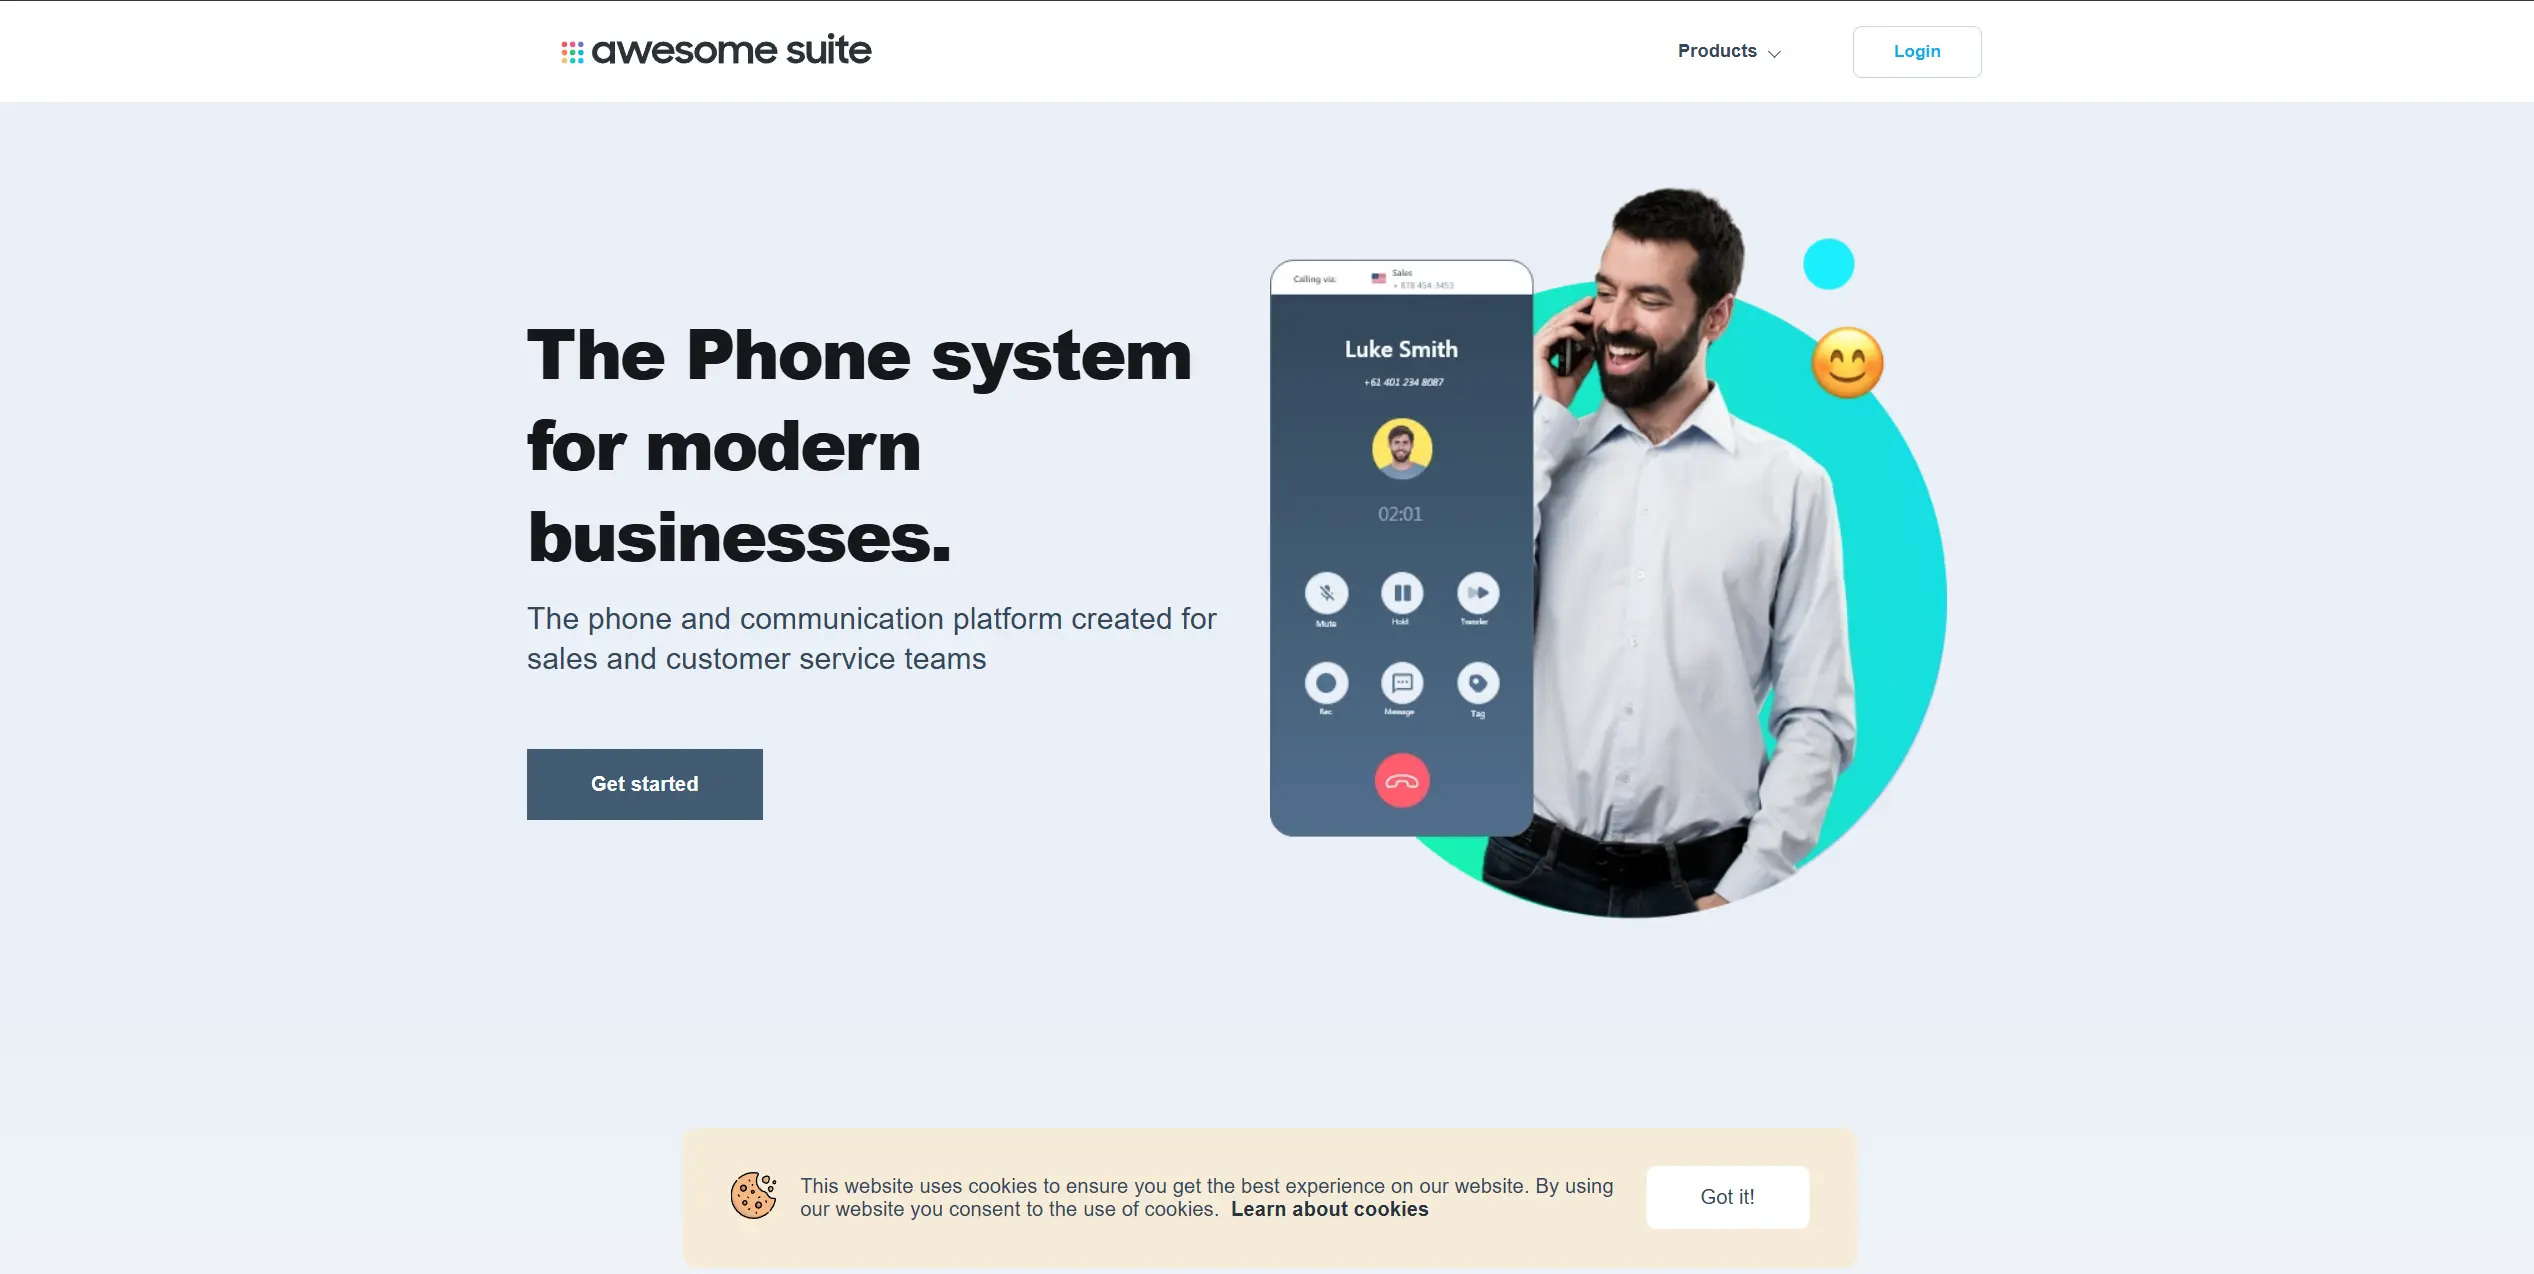
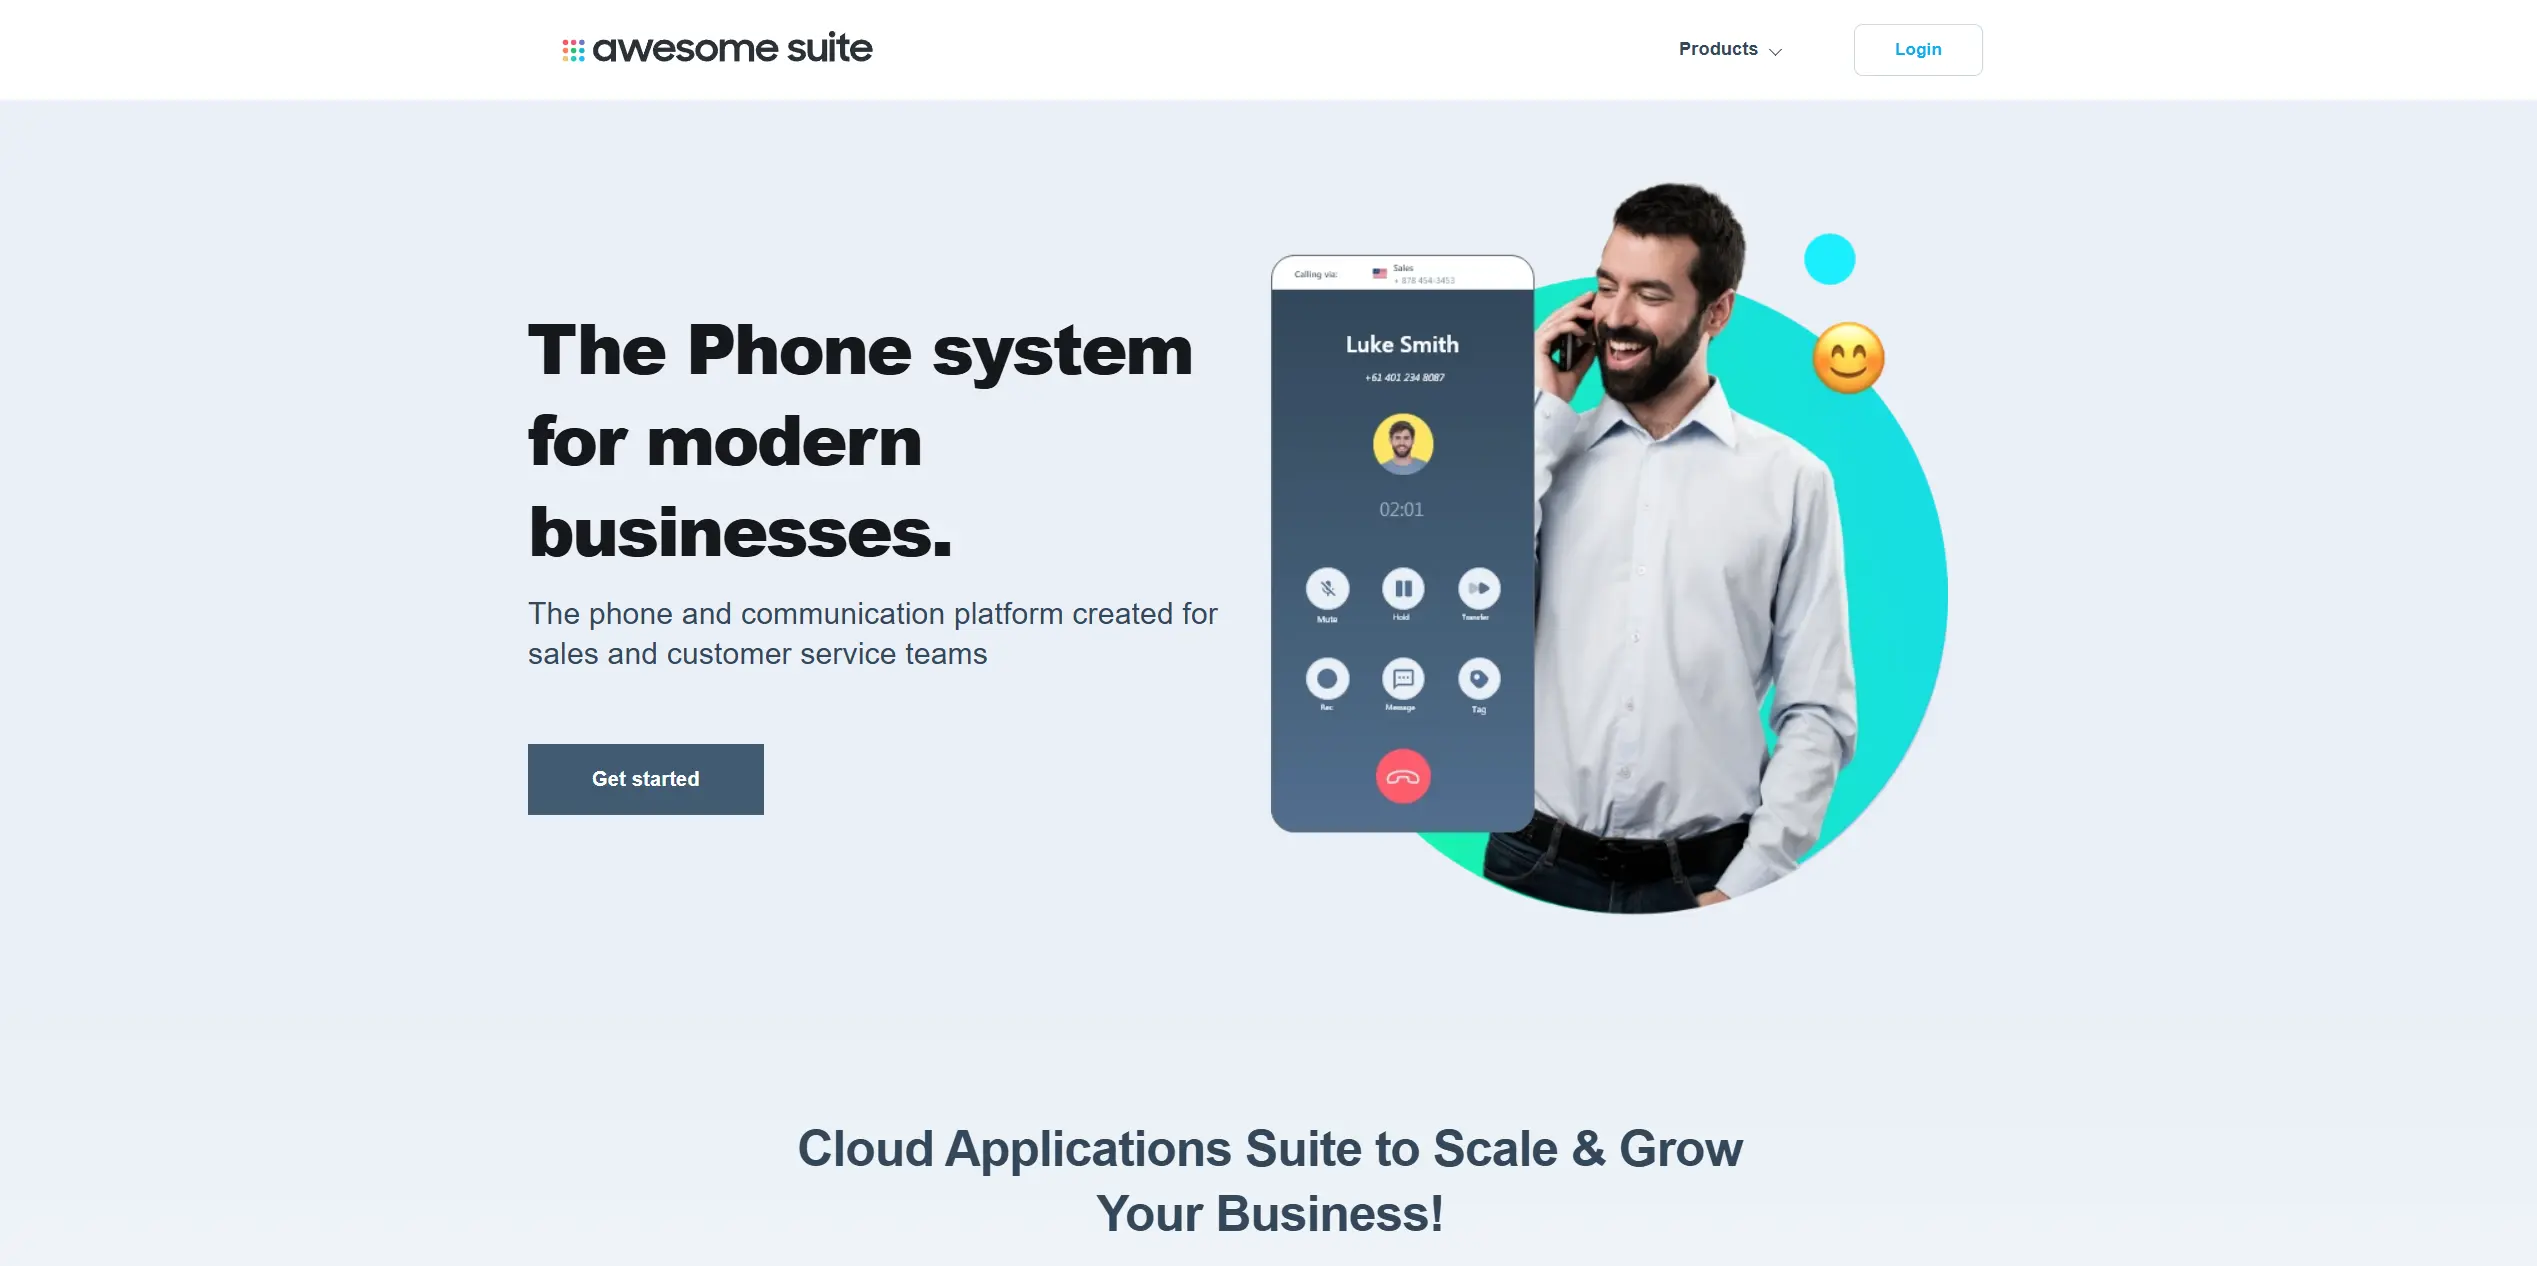
Replace hero image with WebP format, add Galadriel project, and implement "Show More" functionality for project display

diff --git a/components/projects.tsx b/components/projects.tsx
@@ -1,6 +1,6 @@
 "use client";
 
-import { useRef } from "react";
+import { useRef, useState } from "react";
 import { useInView } from "framer-motion";
 import {
   SectionContent,
@@ -12,6 +12,7 @@ import ProjectItem from "./ui/project-item";
 import { ourProjects } from "@/data/projects";
 
 export default function Projects() {
+  const [showAllProjects, setShowAllProjects] = useState<boolean>(false);
   const contentRef = useRef(null);
   const isInView = useInView(contentRef, { once: true, margin: "-100px" });
 
@@ -40,17 +41,30 @@ export default function Projects() {
             </p>
           </div>
 
-          {/* Process Items Container */}
-          <div className="grid grid-cols-1 xl:grid-cols-2 gap-4 w-full">
-            {ourProjects.map((project, index) => (
-              <ProjectItem
-                key={index}
-                name={project.name}
-                liveLink={project.liveLink}
-                image={project.image}
-                works={project.works}
-              />
-            ))}
+          <div className="w-full flex flex-col justify-center items-center gap-y-6">
+            {/* Process Items Container */}
+            <div className="grid grid-cols-1 xl:grid-cols-2 gap-4 w-full">
+              {ourProjects
+                .slice(0, showAllProjects ? ourProjects.length : 6)
+                .map((project, index) => (
+                  <ProjectItem
+                    key={index}
+                    name={project.name}
+                    liveLink={project.liveLink}
+                    image={project.image}
+                    works={project.works}
+                  />
+                ))}
+            </div>
+
+            {ourProjects.length > 6 && (
+              <button
+                onClick={() => setShowAllProjects((prev) => !prev)}
+                className="tracking-[-0.7px] font-onest cursor-pointer text-lg lg:text-xl text-dark font-medium border-b-2 border-dark p-1"
+              >
+                {showAllProjects ? "Show Less" : "Show More"}
+              </button>
+            )}
           </div>
         </SectionContent>
       </SectionContentWrapper>

diff --git a/data/projects.ts b/data/projects.ts
@@ -4,6 +4,7 @@ import IntrepidAiImage from "@/public/images/intrepid-ai.webp";
 import DobbyAds from "@/public/images/dobby-ads.webp";
 import AwesomeSuit from "@/public/images/awesome-suit.webp";
 import SonySauto from "@/public/images/sony-sauto.webp";
+import Galadriel from "@/public/images/galadriel.webp";
 import { ProjectItem } from "@/types/projects";
 
 export const ourProjects: ProjectItem[] = [
@@ -42,5 +43,11 @@ export const ourProjects: ProjectItem[] = [
     liveLink: "https://www.awesomesuite.com/",
     image: AwesomeSuit,
     works: ["Motion Graphics", "Product Design", "Development"],
+  },
+  {
+    name: "Galadriel",
+    liveLink: "https://galadriel.com/",
+    image: Galadriel,
+    works: ["Development"],
   },
 ];

diff --git a/components/hero.tsx b/components/hero.tsx
@@ -3,7 +3,7 @@
 import { MoveUpRight } from "lucide-react";
 import { useRef } from "react";
 import Image from "next/image";
-import HeroImg from "@/public/images/hero.jpg";
+import HeroImg from "@/public/images/hero.webp";
 import { motion, useScroll, useTransform, useSpring } from "framer-motion";
 import { transitionDuration, transitionEffect } from "@/lib/utils";
 import {
